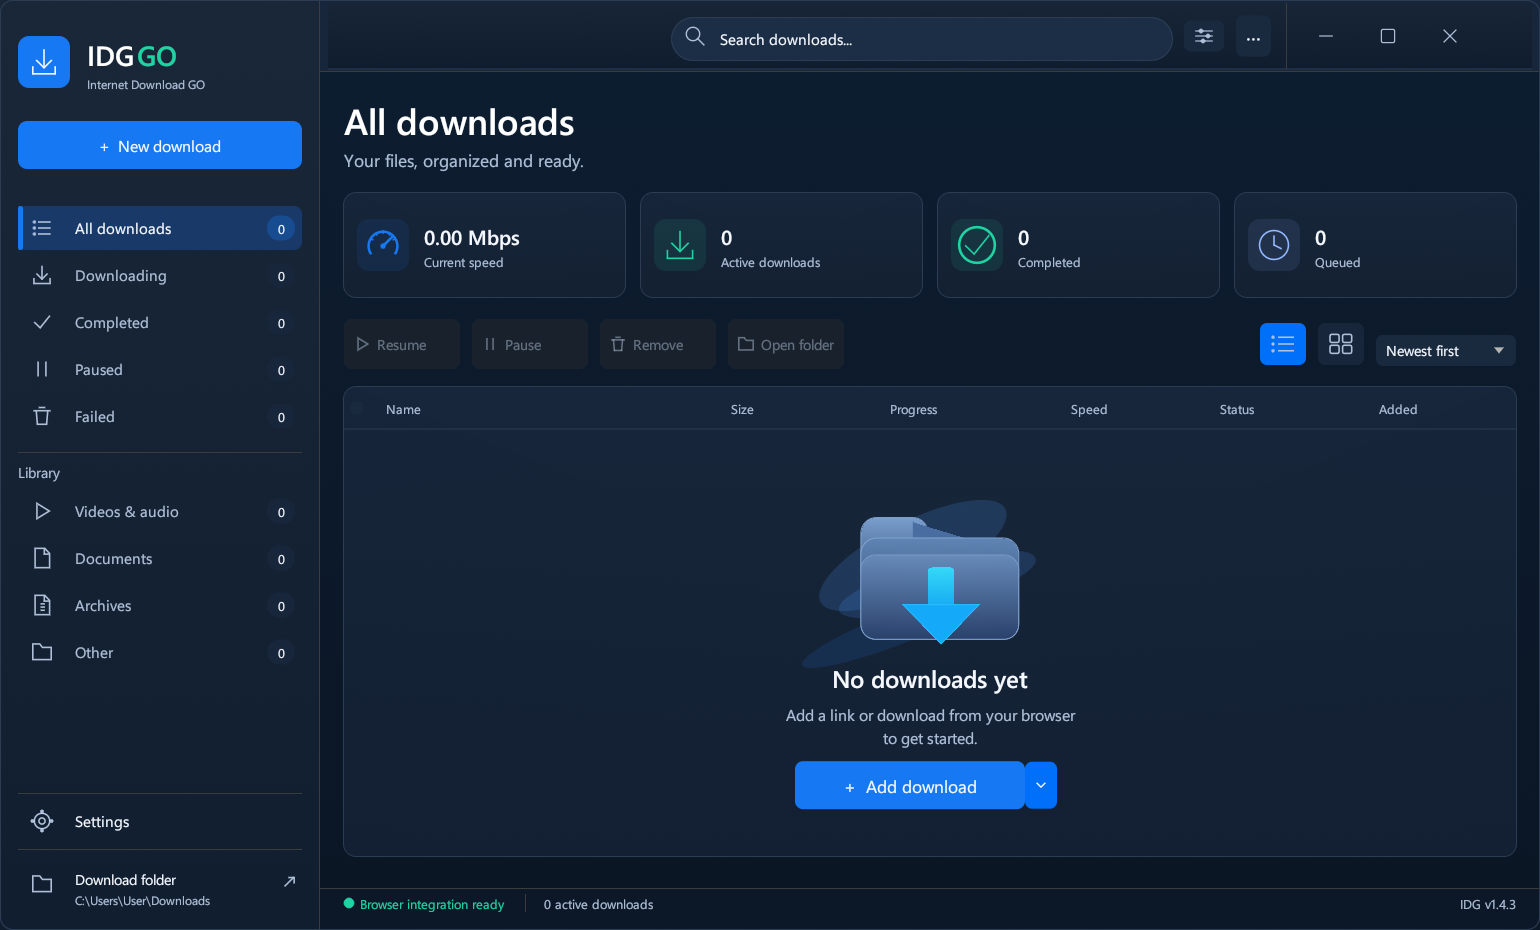
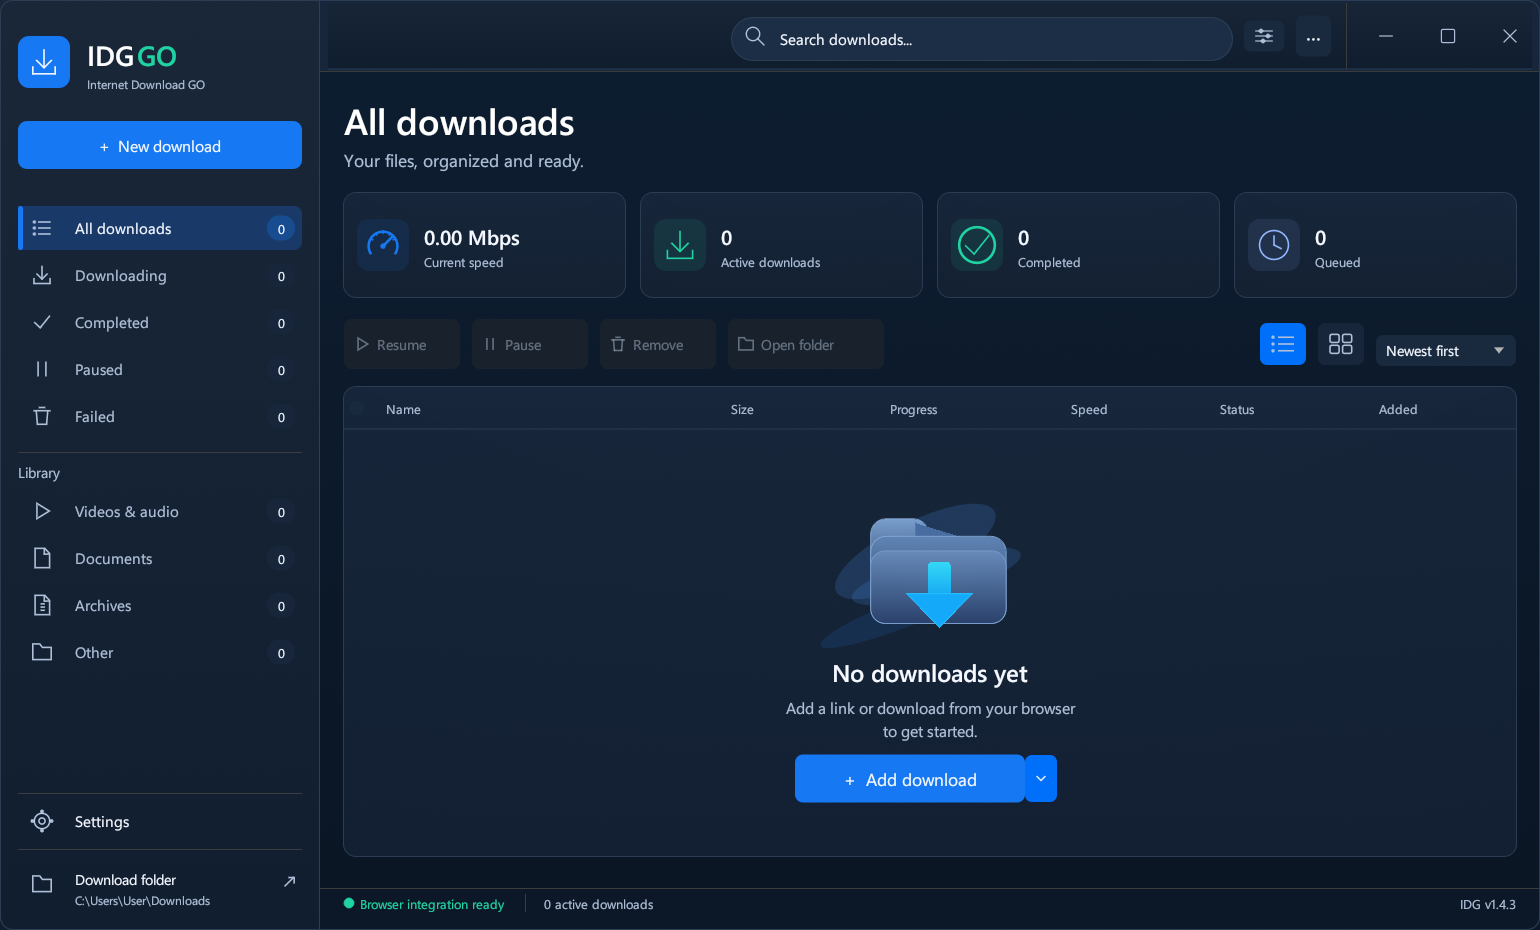
Lock Fluent desktop layout and add native Windows x86 packages

diff --git a/installer/package.py b/installer/package.py
@@ -3,32 +3,48 @@ from pathlib import Path
 import json
 import tomllib
 import sys
+import struct
 from zipfile import ZipFile, ZIP_DEFLATED
 
 root = Path(__file__).resolve().parents[1]
 version = tomllib.loads((root / "Cargo.toml").read_text(encoding="utf-8"))["package"]["version"]
-tag = sys.argv[1] if len(sys.argv) > 1 else f"v{version}"
+tag = sys.argv[1] if len(sys.argv) > 1 and sys.argv[1] not in ("x64", "x86") else f"v{version}"
 if tag != f"v{version}":
     raise SystemExit(f"Release tag {tag!r} does not match Cargo version v{version}")
 if json.loads((root / "extension/manifest.json").read_text(encoding="utf-8"))["version"] != version:
     raise SystemExit("Extension and application versions do not match")
+arch = sys.argv[2] if len(sys.argv) > 2 else (sys.argv[1] if len(sys.argv) > 1 and sys.argv[1] in ("x64", "x86") else "x64")
+if arch not in ("x64", "x86"): raise SystemExit("Architecture must be x64 or x86")
+build = root / ("target/i686-pc-windows-msvc/release" if arch == "x86" else "target/release")
+suffix = "-x86" if arch == "x86" else ""
 for binary in ("IDG.exe", "IDG-native.exe"):
-    if not (root / "target/release" / binary).is_file():
+    if not (build / binary).is_file():
         raise SystemExit("Run cargo build --release --bins first.")
-tools = root / "target/release/tools"
-for name in ("yt-dlp.exe", "ffmpeg.exe", "ffprobe.exe", "deno.exe", "licenses/upstream-sources.json"):
+tools = build / "tools"
+for name in ("yt-dlp.exe", "ffmpeg.exe", "ffprobe.exe", "node.exe" if arch == "x86" else "deno.exe", "licenses/upstream-sources.json"):
     if not (tools / name).is_file():
         raise SystemExit("Run python installer/fetch-media-tools.py before packaging; media tools must be included.")
+# Reject mislabeled packages, including incompatible helper executables and DLLs.
+for path in [build / "IDG.exe", build / "IDG-native.exe", *tools.rglob("*.exe"), *tools.rglob("*.dll")]:
+    with path.open("rb") as source:
+        if source.read(2) != b"MZ": raise SystemExit(f"Invalid Windows binary: {path}")
+        source.seek(0x3c)
+        offset = struct.unpack("<I", source.read(4))[0]
+        source.seek(offset)
+        if source.read(4) != b"PE\0\0": raise SystemExit(f"Invalid PE header: {path}")
+        machine = struct.unpack("<H", source.read(2))[0]
+    if machine != (0x14c if arch == "x86" else 0x8664):
+        raise SystemExit(f"Wrong architecture in {arch} package: {path}")
 (root / "dist").mkdir(exist_ok=True)
 extension_files = sorted(path for path in (root / "extension").rglob("*") if path.is_file())
 extension_zip = root / f"dist/IDG-extension-{tag}.zip"
 with ZipFile(extension_zip, "w", ZIP_DEFLATED) as archive:
     for path in extension_files:
         archive.write(path, path.relative_to(root / "extension"))
-portable_zip = root / f"dist/IDG-portable-{tag}.zip"
+portable_zip = root / f"dist/IDG-portable-{tag}{suffix}.zip"
 with ZipFile(portable_zip, "w", ZIP_DEFLATED) as archive:
     for binary in ("IDG.exe", "IDG-native.exe"):
-        archive.write(root / "target/release" / binary, binary)
+        archive.write(build / binary, binary)
     for path in extension_files:
         archive.write(path, path.relative_to(root))
     for path in sorted(tools.rglob("*")):

diff --git a/installer/fetch-media-tools.py b/installer/fetch-media-tools.py
@@ -3,17 +3,22 @@ import hashlib
 import json
 from pathlib import Path
 import shutil
+import sys
 import urllib.request
 from zipfile import ZipFile
 
 root = Path(__file__).resolve().parents[1]
-destination = root / "target/release/tools"
+arch = sys.argv[1] if len(sys.argv) > 1 else "x64"
+if arch not in ("x64", "x86"): raise SystemExit("Architecture must be x64 or x86")
+build = "target/i686-pc-windows-msvc/release" if arch == "x86" else "target/release"
+destination = root / build / "tools"
 cache = root / "target/media-cache"
 destination.mkdir(parents=True, exist_ok=True)
 cache.mkdir(parents=True, exist_ok=True)
 notices = destination / "licenses"
 notices.mkdir(exist_ok=True)
-lock = json.loads((root / "installer/media-tools.json").read_text(encoding="utf-8"))
+lock_path = root / ("installer/media-tools-x86.json" if arch == "x86" else "installer/media-tools.json")
+lock = json.loads(lock_path.read_text(encoding="utf-8"))
 
 
 def fetch(url, path):
@@ -53,13 +58,13 @@ for tool in lock["tools"]:
 # The complete GPLv3 text was already fetched from FFmpeg's pinned source revision.
 # Reuse it rather than making release packaging depend on another host's uptime.
 shutil.copyfile(notices / "ffmpeg-0-COPYING.GPLv3.txt", notices / "GPL-3.0.txt")
-shutil.copyfile(root / "installer/media-tools.json", notices / "upstream-sources.json")
+shutil.copyfile(lock_path, notices / "upstream-sources.json")
 (notices / "README.txt").write_text(
     "IDG invokes these independent tools as subprocesses. Their licenses and upstream source locations "
     "are included here. yt-dlp's Windows executable and this FFmpeg build contain GPLv3+ components. "
     "Sources: https://github.com/yt-dlp/yt-dlp ; https://github.com/yt-dlp/FFmpeg-Builds ; "
-    "https://github.com/FFmpeg/FFmpeg/tree/7045cc9b80 ; https://github.com/denoland/deno\n",
+    "https://github.com/FFmpeg/FFmpeg/tree/7045cc9b80 ; https://github.com/denoland/deno ; https://github.com/nodejs/node\n",
     encoding="utf-8")
-for executable in ["yt-dlp.exe", "ffmpeg.exe", "ffprobe.exe", "deno.exe"]:
+for executable in ["yt-dlp.exe", "ffmpeg.exe", "ffprobe.exe", "node.exe" if arch == "x86" else "deno.exe"]:
     if not (destination / executable).is_file():
         raise SystemExit(f"Missing required media tool: {executable}")

diff --git a/src/app/shell.rs b/src/app/shell.rs
@@ -70,7 +70,7 @@ impl IDGApp {
             egui::Id::new("window-drag-region"),
             egui::Sense::click_and_drag(),
         );
-        if drag.double_clicked() {
+        if drag.double_clicked() && crate::settings_preview() {
             ctx.send_viewport_cmd(egui::ViewportCommand::Maximized(!maximized));
         } else if drag.drag_started_by(egui::PointerButton::Primary) {
             ctx.send_viewport_cmd(egui::ViewportCommand::StartDrag);
@@ -79,7 +79,7 @@ impl IDGApp {
         let height = if wide { 62.0 } else { 48.0 };
         ui.horizontal_centered(|ui| {
             ui.spacing_mut().item_spacing.x = if wide { 12.0 } else { 6.0 };
-            let controls = if wide { 360.0 } else { 280.0 };
+            let controls = if wide { 300.0 } else { 280.0 };
             let search_width = (ui.available_width() * 0.49).clamp(170.0, 500.0);
             ui.add_space((ui.available_width() - controls - search_width).max(4.0));
             Frame::none()
@@ -203,13 +203,17 @@ impl IDGApp {
             if chrome_button(ui, "Minimize", 0, height).clicked() {
                 ctx.send_viewport_cmd(egui::ViewportCommand::Minimized(true));
             }
-            if chrome_button(
-                ui,
-                if maximized { "Restore" } else { "Maximize" },
-                if maximized { 3 } else { 1 },
-                height,
-            )
-            .clicked()
+            if ui
+                .add_enabled_ui(crate::settings_preview(), |ui| {
+                    chrome_button(
+                        ui,
+                        if maximized { "Restore" } else { "Maximize" },
+                        if maximized { 3 } else { 1 },
+                        height,
+                    )
+                })
+                .inner
+                .clicked()
             {
                 ctx.send_viewport_cmd(egui::ViewportCommand::Maximized(!maximized));
             }
@@ -246,6 +250,9 @@ impl IDGApp {
             egui::Id::new("window-border"),
         ));
         painter.rect_stroke(rect.shrink(1.0), 12.0, Stroke::new(1.2_f32, BORDER));
+        if !crate::settings_preview() {
+            return;
+        }
         let Some(position) = ctx.pointer_hover_pos() else {
             return;
         };

diff --git a/src/app/library.rs b/src/app/library.rs
@@ -849,7 +849,13 @@ impl IDGApp {
                     enabled,
                     egui::Button::new("")
                         .min_size(Vec2::new(
-                            if roomy { 116.0 } else { 86.0 },
+                            if label == "Open folder" {
+                                if roomy { 156.0 } else { 116.0 }
+                            } else if roomy {
+                                116.0
+                            } else {
+                                86.0
+                            },
                             if roomy { 50.0 } else { 34.0 },
                         ))
                         .rounding(8.0),
@@ -1372,7 +1378,10 @@ impl IDGApp {
             let scale = ((rect.height() - 52.0) / 410.0).clamp(0.45, 1.0);
             let center = egui::pos2(
                 rect.center().x,
-                rect.top() + 42.0 + (rect.height() - 42.0) * 0.34,
+                rect.top()
+                    + 42.0
+                    + (rect.height() - 42.0 - 320.0 * scale).max(0.0) * 0.5
+                    + 85.0 * scale,
             );
             if query.is_empty() && rect.height() < 220.0 {
                 let body = egui::Rect::from_min_max(
@@ -1404,7 +1413,7 @@ impl IDGApp {
             } else if query.is_empty() {
                 draw_empty_folder(
                     ui.painter(),
-                    egui::Rect::from_center_size(center, Vec2::new(245.0, 170.0) * scale),
+                    egui::Rect::from_center_size(center, Vec2::new(210.0, 146.0) * scale),
                 );
                 ui.painter().text(
                     center + Vec2::new(0.0, 104.0) * scale,

diff --git a/src/download/media.rs b/src/download/media.rs
@@ -142,7 +142,7 @@ async fn inspect_with_tools(url: &str, cookies: Option<&str>, tools: &Path) -> R
             "1",
             "--js-runtimes",
         ])
-        .arg(format!("deno:{}", tools.join("deno.exe").display()));
+        .arg(js_runtime(tools));
     if let Some(cookies) = cookies.as_deref() {
         command.arg("--cookies").arg(cookies);
     }
@@ -266,10 +266,20 @@ pub fn tools_available() -> bool {
     available_at(&tools_dir())
 }
 
+fn js_runtime(tools: &Path) -> String {
+    let name = if tools.join("deno.exe").is_file() {
+        "deno"
+    } else {
+        "node"
+    };
+    format!("{name}:{}", tools.join(format!("{name}.exe")).display())
+}
+
 fn available_at(dir: &Path) -> bool {
-    ["yt-dlp.exe", "ffmpeg.exe", "ffprobe.exe", "deno.exe"]
+    ["yt-dlp.exe", "ffmpeg.exe", "ffprobe.exe"]
         .iter()
         .all(|file| dir.join(file).is_file())
+        && (dir.join("deno.exe").is_file() || dir.join("node.exe").is_file())
 }
 
 fn command(
@@ -302,9 +312,7 @@ fn command(
         "0.25",
     ]);
     command.arg("--ffmpeg-location").arg(tools);
-    command
-        .arg("--js-runtimes")
-        .arg(format!("deno:{}", tools.join("deno.exe").display()));
+    command.arg("--js-runtimes").arg(js_runtime(tools));
     command.args(format_args(options));
     command.arg("--concurrent-fragments").arg(
         if connections == 0 {

diff --git a/src/desktop.rs b/src/desktop.rs
@@ -4,7 +4,7 @@ use std::path::Path;
 use std::sync::mpsc::{self, Receiver};
 
 /// Initial client size and recovery size for invalid persisted geometry.
-pub const DEFAULT_WINDOW_SIZE: egui::Vec2 = egui::vec2(1280.0, 800.0);
+pub const DEFAULT_WINDOW_SIZE: egui::Vec2 = egui::vec2(1540.0, 930.0);
 /// Smallest supported desktop layout, in egui points.
 pub const MIN_WINDOW_SIZE: egui::Vec2 = egui::vec2(800.0, 500.0);
 
@@ -98,6 +98,13 @@ pub fn repair_window_builder(mut builder: egui::ViewportBuilder) -> egui::Viewpo
         // The framework has already clamped the invalid minimized position to a
         // screen corner. Let Windows choose a fresh position along with the size.
         builder.position = None;
+    }
+    if !crate::settings_preview() {
+        builder.inner_size = Some(DEFAULT_WINDOW_SIZE);
+        builder.resizable = Some(false);
+        builder.maximize_button = Some(false);
+        builder.maximized = Some(false);
+        builder.fullscreen = Some(false);
     }
     builder
 }
@@ -444,7 +451,7 @@ mod tests {
                 egui::ViewportBuilder::default().with_inner_size([1200.0, 800.0])
             )
             .inner_size,
-            Some(egui::vec2(1200.0, 800.0))
+            Some(DEFAULT_WINDOW_SIZE)
         );
     }
 

diff --git a/src/updater.rs b/src/updater.rs
@@ -64,7 +64,11 @@ fn update_from_release(release: GhRelease, current: &str) -> Result<Option<Updat
         version.bytes().all(|c| c.is_ascii_digit() || c == b'.'),
         "Invalid release version"
     );
-    let name = format!("IDG-Setup-v{version}.exe");
+    let name = if cfg!(target_arch = "x86") {
+        format!("IDG-Setup-v{version}-x86.exe")
+    } else {
+        format!("IDG-Setup-v{version}.exe")
+    };
     let asset = release
         .assets
         .iter()
@@ -239,7 +243,7 @@ mod tests {
             "html_url": format!("https://github.com/Mustafa1p/IDG-internet-download-go/releases/tag/v{version}"),
             "body": "A new release\n\n- Fix the tiny window\n- Add update alerts",
             "assets": [{
-                "name": format!("IDG-Setup-v{version}.exe"),
+                "name": if cfg!(target_arch = "x86") { format!("IDG-Setup-v{version}-x86.exe") } else { format!("IDG-Setup-v{version}.exe") },
                 "browser_download_url": format!("https://github.com/Mustafa1p/IDG-internet-download-go/releases/download/v{version}/IDG-Setup-v{version}.exe"),
                 "digest": format!("sha256:{}", "a".repeat(64)),
                 "size": 42

diff --git a/installer/checksums.py b/installer/checksums.py
@@ -9,7 +9,7 @@ version = tomllib.loads((root / "Cargo.toml").read_text(encoding="utf-8"))["pack
 tag = sys.argv[1] if len(sys.argv) > 1 else f"v{version}"
 if tag != f"v{version}":
     raise SystemExit("Release tag does not match the application version")
-names = [f"IDG-Setup-{tag}.exe", f"IDG-portable-{tag}.zip", f"IDG-extension-{tag}.zip"]
+names = [f"IDG-Setup-{tag}.exe", f"IDG-portable-{tag}.zip", f"IDG-extension-{tag}.zip", f"IDG-Setup-{tag}-x86.exe", f"IDG-portable-{tag}-x86.zip"]
 lines = []
 for name in names:
     path = root / "dist" / name

diff --git a/README.md b/README.md
@@ -21,7 +21,7 @@ Splits every file into multiple parallel connections — just like IDM, but free
 ## ⬇ Download
 
 <a href="https://github.com/Mustafa1p/IDG-internet-download-go/releases/latest/download/IDG-Setup-v1.4.3.exe">
-  <img src="https://img.shields.io/badge/Download%20Installer-Setup%20.exe-1976d2?style=for-the-badge&logo=windows&logoColor=white" height="42"/>
+  <img src="https://img.shields.io/badge/Download%20Installer-Windows%20x64-1976d2?style=for-the-badge&logo=windows&logoColor=white" height="42"/>
 </a>
 &nbsp;&nbsp;
 <a href="https://github.com/Mustafa1p/IDG-internet-download-go/releases/latest/download/IDG-extension-v1.4.3.zip">
@@ -323,3 +323,15 @@ The extension popup now contains only connection status. Capture controls, manua
 The page's **Download with IDG** overlay is now 28px tall. Click **×** to hide it for that video until the page reloads, or press **Escape** while the overlay has keyboard focus. The close button also removes any error notice and remains available while a handoff is in progress. Different videos can show their own download button. Downloads already sent to IDG remain in its desktop queue.
 
 ![Slim media overlay with close button](docs/media-overlay.png)
+
+### Build Windows x86 packages
+
+```powershell
+rustup target add i686-pc-windows-msvc
+cargo build --locked --release --bins --target i686-pc-windows-msvc
+python installer/fetch-media-tools.py x86
+python installer/package.py v1.4.3 x86
+./installer/build-installer.ps1 -Architecture x86
+```
+
+The x86 package includes 32-bit IDG, native bridge, yt-dlp, FFmpeg/FFprobe and Node.js. The x64 package retains Deno. Packaging validates the PE architecture of every bundled executable and DLL. The x86 updater selects the x86 installer; the existing unsuffixed setup name remains the x64 download for older updater compatibility. Windows 10/11 are the supported OS family; Windows 11 itself requires a 64-bit PC.

diff --git a/docs/release-notes.md b/docs/release-notes.md
@@ -10,6 +10,6 @@ IDG v1.4.3 refreshes the Windows desktop interface to follow the supplied Window
 
 **The version remains 1.4.3.** This is a refreshed package under the existing release. If you already installed an earlier 1.4.3 build, quit IDG from its tray menu and run the refreshed **IDG-Setup-v1.4.3.exe** once. Equal version numbers do not trigger an automatic update loop. User downloads and saved preferences remain intact; the existing queue/history is still session-only.
 
-The release includes the Windows x64 installer, complete portable package, browser extension, and SHA-256 checksums. Keep the native bridge and bundled media tools with the portable app.
+The release includes Windows x64 (`IDG-Setup-v1.4.3.exe`) and x86 (`IDG-Setup-v1.4.3-x86.exe`) installers, matching portable packages, browser extension, and SHA-256 checksums. Keep the native bridge and bundled media tools with the portable app.
 
 Validation and limitations are documented in [the QA report](https://github.com/Mustafa1p/IDG-internet-download-go/blob/main/docs/fluent-qa.md), and every UI/integration route is mapped in [the navigation guide](https://github.com/Mustafa1p/IDG-internet-download-go/blob/main/docs/ui-navigation.md). Rendering-scale tests are not actual Windows display-DPI changes; a live signed-in browser/media session and Windows Snap-layout flyout are not certified by these checks.
